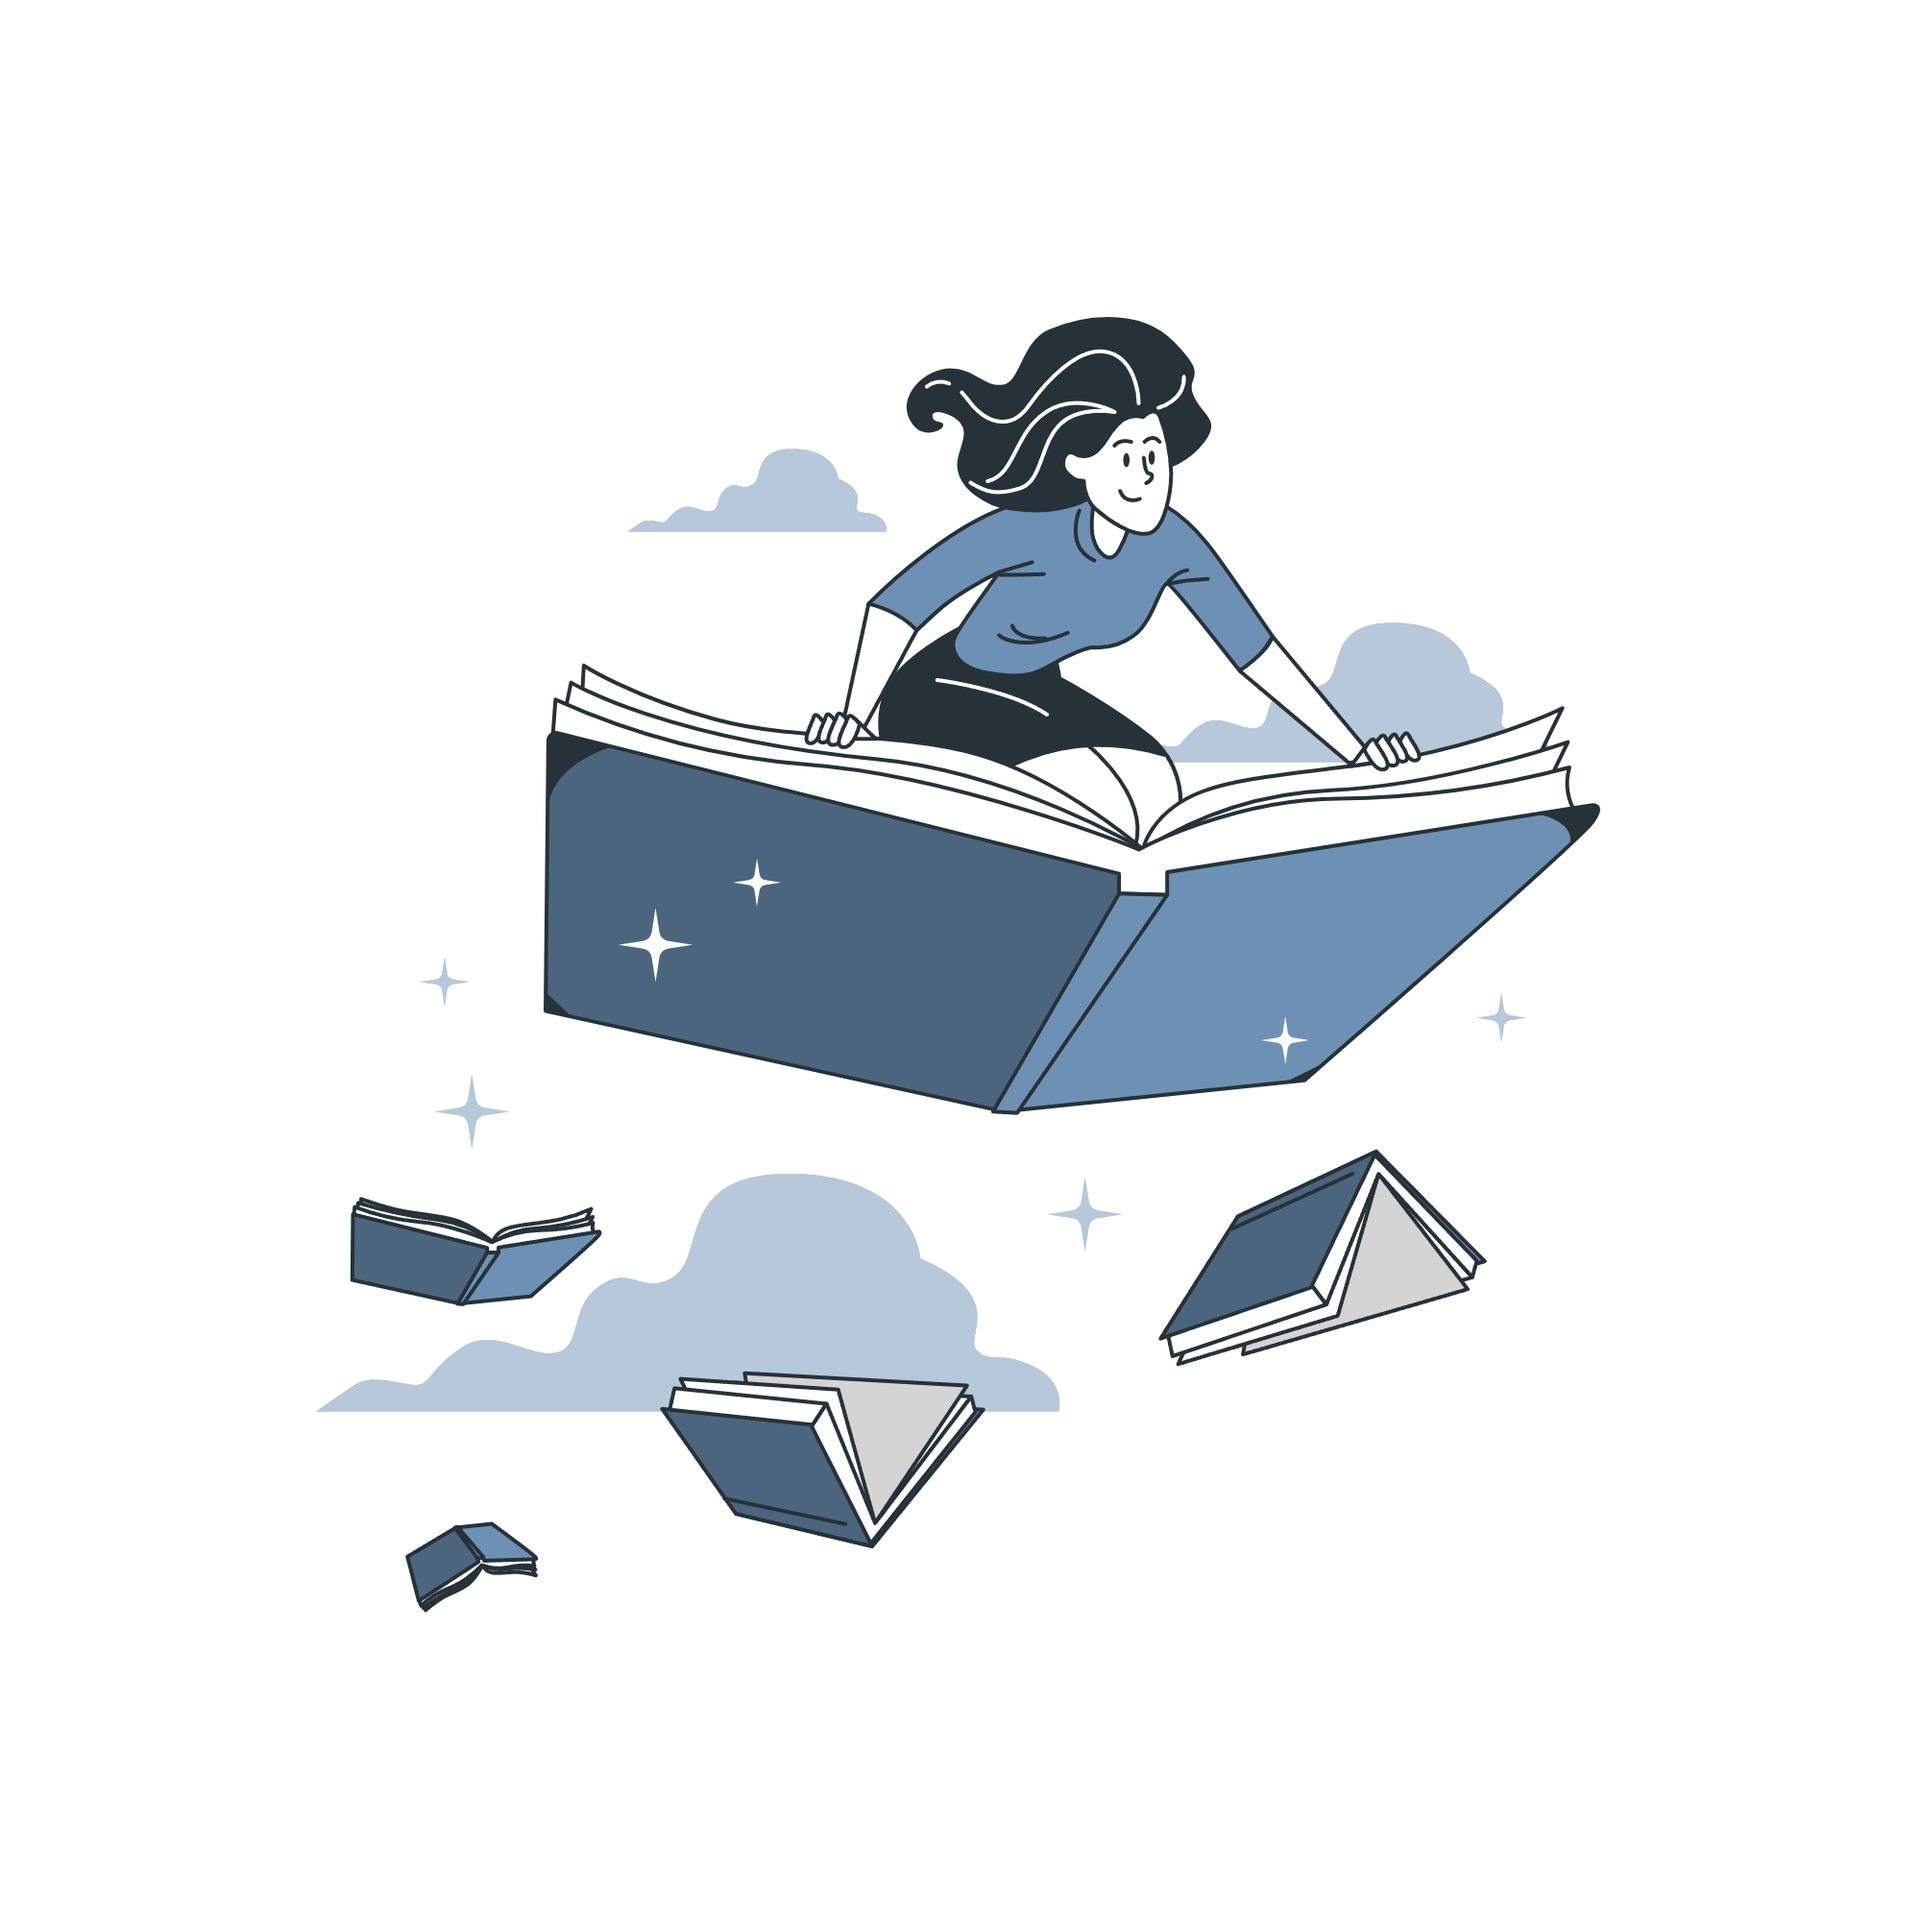
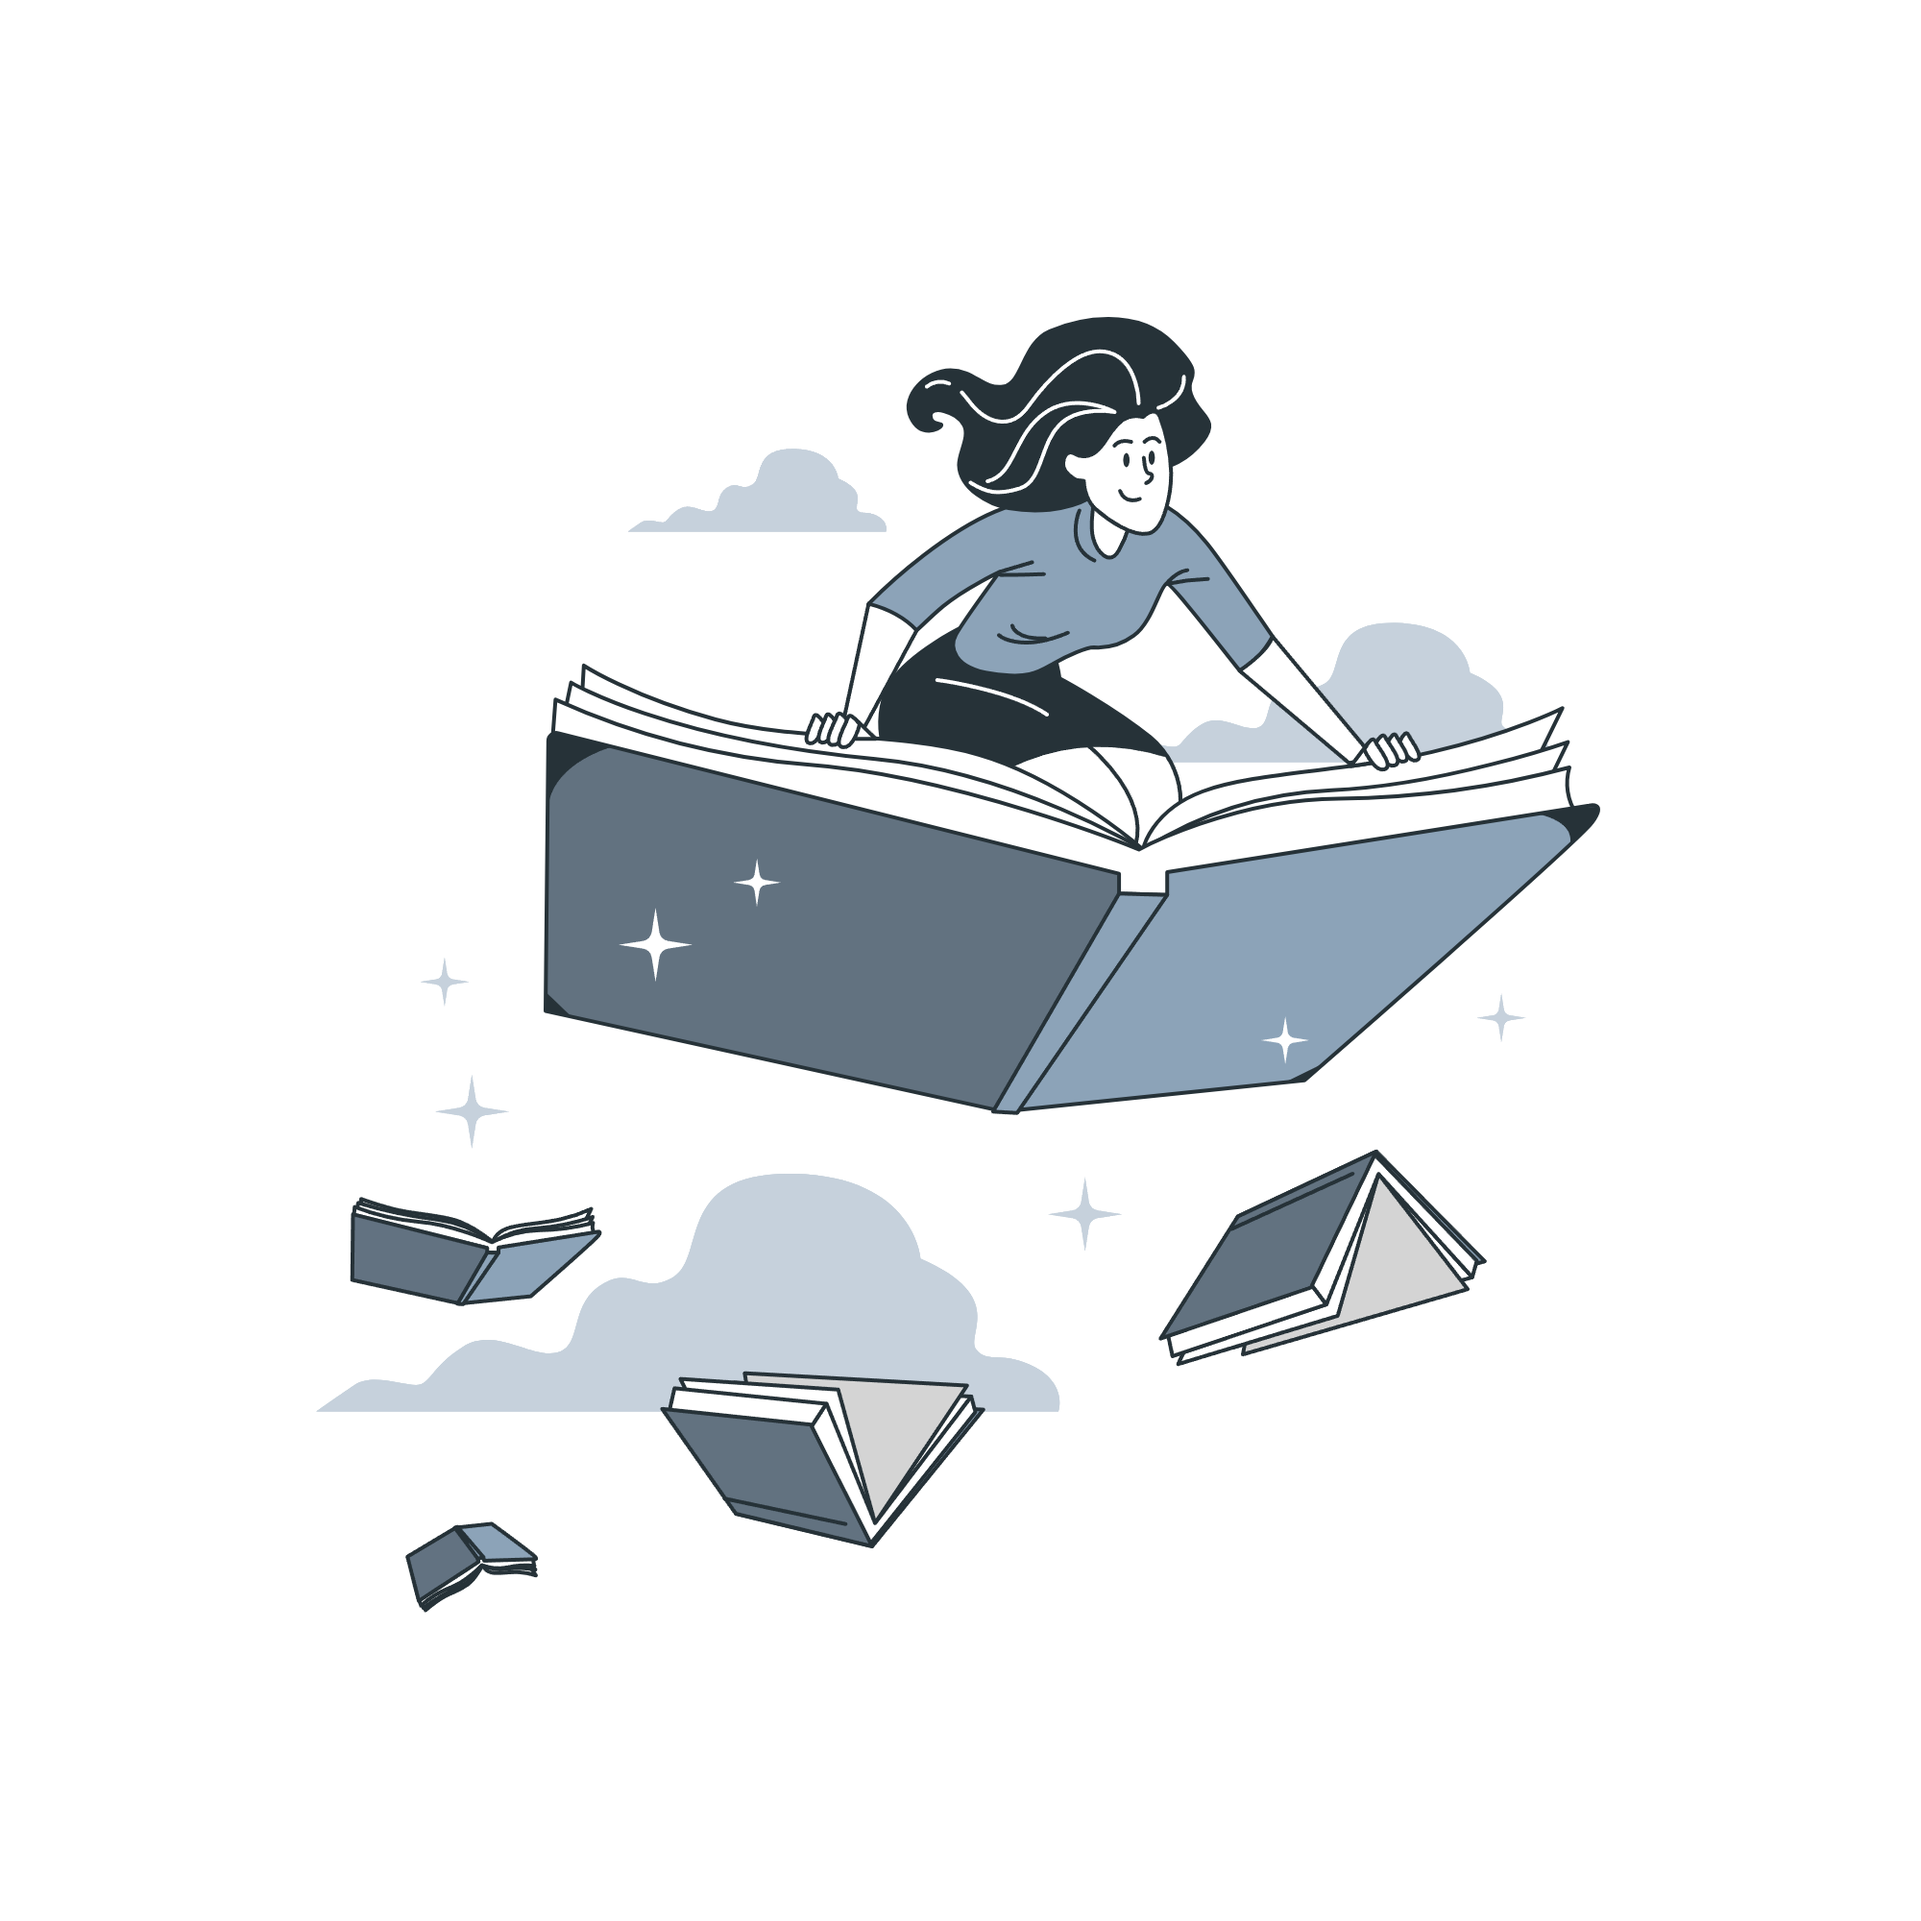
Ajustes

diff --git a/Sistema/Home/CSS/style.css b/Sistema/Home/CSS/style.css
@@ -99,6 +99,34 @@ body {background-color: #384b64;}
 
 
 
+/* PAUSA */
+/* #pausa
+{
+     display: flex;
+     flex-direction: row;
+     justify-content: center;
+     align-items: center;
+     text-align: center;
+     background-color: #a5a9ac;
+     padding: 5rem 0rem 1rem 0rem;
+
+     p{
+          width: 60%;
+          font-size: 1.5rem;
+          color: #28394e;
+     }
+} */
+
+
+
+
+
+
+
+
+
+
+
 
 
 
@@ -120,13 +148,13 @@ body {background-color: #384b64;}
      display: flex;
      flex-direction: column;
      justify-content: center;
-     width: 45%;
-     padding-left: 5rem;     
+     width: 50%;
+     padding-left: 6rem;     
 }
 
 #conteinerUmSessaoDois h1
 {
-     color: white;
+     color: #1d2b3b;
      font-size: 5rem;
      font-weight: 300;
 }
@@ -134,9 +162,9 @@ body {background-color: #384b64;}
 #conteinerUmSessaoDois p
 {
      margin-top: 3rem;
-     font-size: 1.6rem;
-     font-weight: 200;
-     color: white;
+     font-size: 1.8rem;
+     font-weight: 300;
+     color:  #1d2b3b;
      text-align: left;
      flex-wrap: wrap;
 }
@@ -147,7 +175,7 @@ body {background-color: #384b64;}
      flex-direction: column;
      justify-content: flex-end;
      align-items: flex-end;
-     width: 55%;
+     width: 50%;
 
 }
 
@@ -164,6 +192,9 @@ body {background-color: #384b64;}
      width: 100%;
      height: 100%;
 }
+
+
+
 
 
 
@@ -190,12 +221,12 @@ body {background-color: #384b64;}
      flex-direction: row;
      height: 15%;
      width: 80%;
-     padding-top: 2rem;
+     padding-top: 3rem;
 }
 
 #conteinerUmSessaotres h1
 {
-     color: #384b64;
+     color: #1d2b3b;
      font-size: 4.5rem;
      font-weight: 300;
 }
@@ -234,19 +265,19 @@ body {background-color: #384b64;}
      flex-direction: column;
      justify-content: center;
      align-items: center;
-     color: #384b64;
+     color: #1d2b3b;
      align-items: center;
      flex: 0 0 auto;
      width: 30%;
-     border: 1px solid #384b64;
+     border: 1px solid #1d2b3b;
      border-radius: 2.5rem;
-     padding: 2rem;
-     
+     padding: 4rem 3rem 4rem 3rem;
+     gap: 2rem;
 
      img{
           width: 15rem;
           height: 15rem;
-          padding: 3rem;
+          
      }
 }
 
@@ -259,7 +290,7 @@ body {background-color: #384b64;}
 {
      font-size: 6rem;
      text-decoration: none;
-     color: #384b64;
+     color: #1d2b3b;
      transition: all 0.3s ease-in-out;
 }
 #carrossel a:hover

diff --git a/Sistema/Home/index.html b/Sistema/Home/index.html
@@ -48,17 +48,25 @@
     </section>
 <!-- FIM DA PRIMEIRA SESSÃO  -->
 
-
+<!-- NOVA SESSÃO -->
+    <!-- <section id="pausa">
+        <p>
+            O BBooks nasceu da minha profunda conexão com a leitura, inspirada pela dedicação do meu pai à sua biblioteca pessoal.
+                Desde jovem, testemunhei seu amor pelos livros, e essa 
+                influência moldou minha própria paixão pela leitura.
+        </p>
+    </section> -->
 
 <!-- SEGUNDA SESSÃO  -->
     <section id="sessaoDois">
         <div id="conteinerUmSessaoDois">
             <h1>BBOOKS?</h1>
             <p>
-                    O BBooks nasceu da minha profunda conexão com a leitura, inspirada pela dedicação do meu pai à sua biblioteca pessoal.
+                O BBooks nasceu da minha conexão com a leitura, inspirada pela dedicação do meu pai à sua biblioteca pessoal.
                 Desde jovem, testemunhei seu amor pelos livros, e essa 
-                influência moldou minha própria paixão pela leitura. 
-                <br/>Ao criar o BluBooks, busquei homenagear seu legado e o 
+                influência moldou minha própria paixão pela leitura.
+                <br/><br/>
+                Ao criar o BBooks, busquei homenagear seu legado e o 
                 incentivo que ele me proporcionou para sempre buscar 
                 conhecimento através dos livros, mantendo viva essa memória 
                 em cada interação com o sistema.
@@ -67,7 +75,7 @@
         </div>
         <div id="conteinerDoisSessaoDois">
             <div id="imgSessaoDois">
-                <img src="IMG/pana2.png">
+                <img src="IMG/pana.png">
             </div>
         </div>
     </section>

diff --git a/Sistema/padrao.css b/Sistema/padrao.css
@@ -46,7 +46,7 @@ header
 #conteinerNav h1
 {
      font-size: 2rem;
-     color: #384B64;
+     color: #181d24;
      text-decoration: none;
      font-weight: 300;
      cursor: pointer;
@@ -66,7 +66,7 @@ header
      font-size: 1.3rem;
      font-weight: 500;
      text-decoration: none;
-     color: #384B64;
+     color: #1d2b3b;
      cursor: pointer;
 }
 
@@ -80,7 +80,7 @@ header
 
 #btnUm, #btnDois
 {
-     border: 1px solid #384B64;
+     border: 1px solid #1d2b3b;
      border-radius: 0.2rem;
      height: 2rem;
      width: 7.5rem;
@@ -89,7 +89,7 @@ header
      text-decoration: none;
      cursor: pointer;
      background-color: var(---corHeader);
-     color: #2c3f58;
+     color: #1d2b3b;
      transition: all 0.5s ease-in-out;
      
 }
@@ -97,7 +97,7 @@ header
 #btnUm:hover, #btnDois:hover
 {
      transition: all 0.5s  ease-in-out;
-     background-color: #384B64;
+     background-color: #1d2b3b;
      color: #cfd5dd;
 
 }
